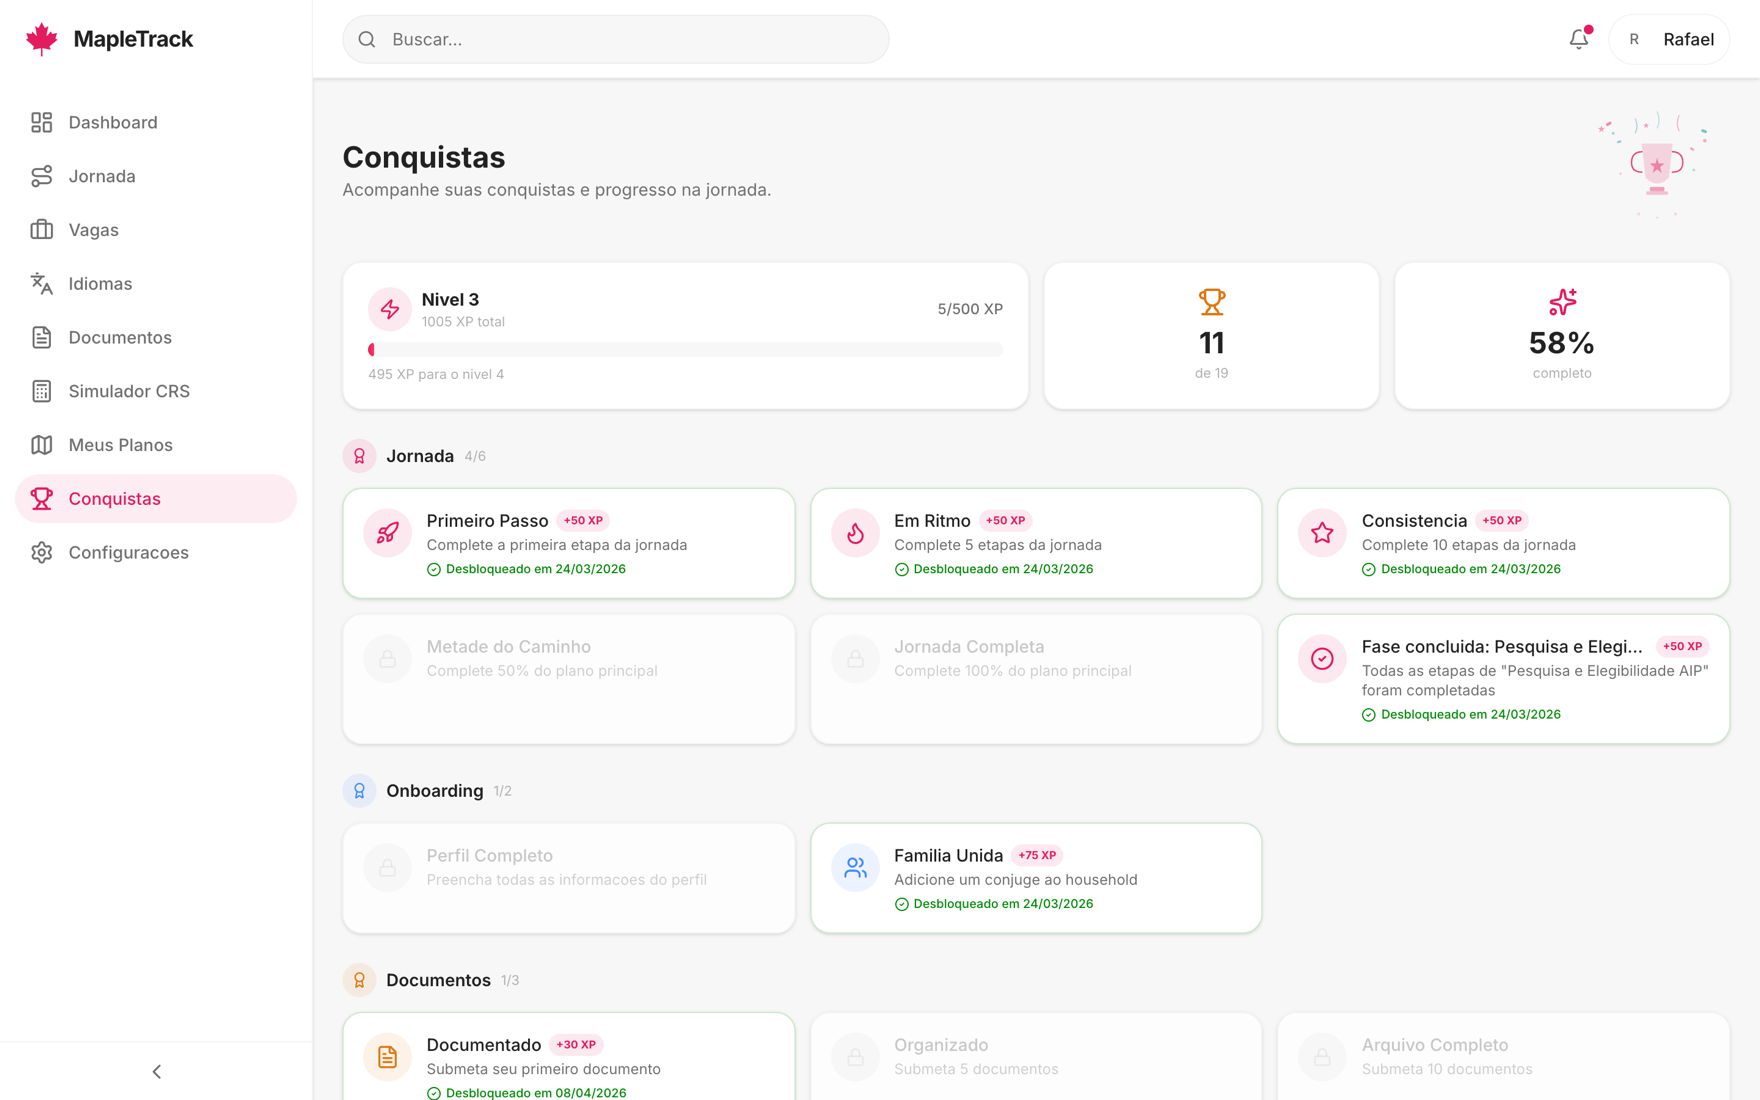
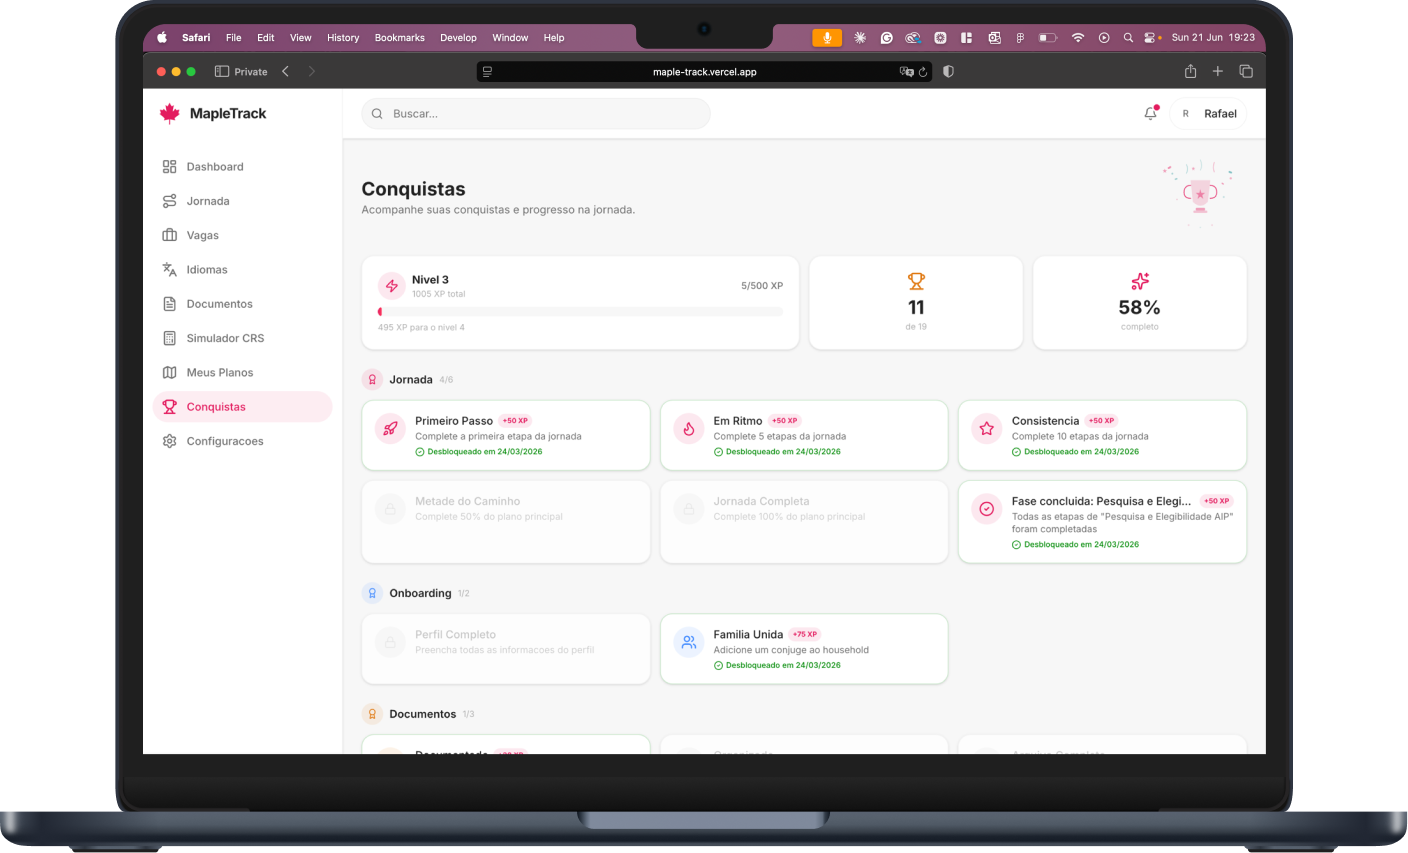
MapleTrack: pre-composited MacBook mockups from Figma
Replace the CSS overlay approach with 12 Figma-exported MacBook
mockups (device frame baked into the image). BrowserFrame now
renders a single <Image> with drop-shadow — no overlay, no inset
calculations, pixel-perfect framing.

Screens: dashboard, landing, onboarding, simulator, journey,
programs, program-detail, plans, languages, documents, jobs,
achievements. Skipped: login, compare (empty), notifications
(sparse), settings (basic).

diff --git a/app/work/maple-track/page.tsx b/app/work/maple-track/page.tsx
@@ -20,16 +20,11 @@ function Divider() {
   return <div style={{ height: 1, background: "linear-gradient(90deg, transparent 0%, rgba(255,255,255,.1) 50%, transparent 100%)", margin: "0 2rem" }} />;
 }
 
-/* ── MacBook frame (real PNG overlay) ── */
+/* ── MacBook mockup (pre-composited from Figma) ── */
 function BrowserFrame({ src, alt }: { src: string; alt: string; url?: string }) {
   return (
-    <div style={{ position: "relative", aspectRatio: "1408 / 853", filter: "drop-shadow(0 40px 80px rgba(0,0,0,.5))" }}>
-      {/* screenshot fills full frame — bezel is semi-transparent and masks the edges */}
-      <div style={{ position: "absolute", top: "5.6%", left: 0, right: 0, bottom: 0, overflow: "hidden", background: "#f5f5f7" }}>
-        <Image src={src} alt={alt} fill sizes="(max-width:768px) 90vw, 62vw" style={{ objectFit: "cover", objectPosition: "top center" }} />
-      </div>
-      {/* eslint-disable-next-line @next/next/no-img-element */}
-      <img src="/devices/macbook-frame.png" alt="" aria-hidden style={{ width: "100%", height: "auto", display: "block", position: "relative", zIndex: 2, pointerEvents: "none" }} />
+    <div style={{ filter: "drop-shadow(0 40px 80px rgba(0,0,0,.5))" }}>
+      <Image src={src} alt={alt} width={1408} height={853} sizes="(max-width:768px) 90vw, 62vw" style={{ width: "100%", height: "auto", display: "block" }} />
     </div>
   );
 }
